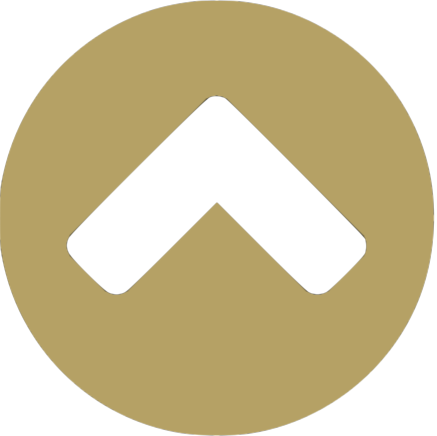
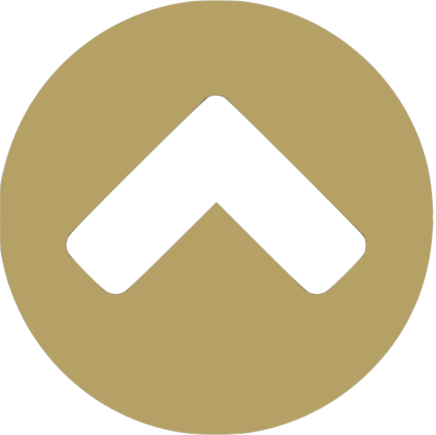
Fixed feature card tint.

diff --git a/src/Components/LandingPage/FeatureCard.js b/src/Components/LandingPage/FeatureCard.js
@@ -1,5 +1,7 @@
 import React, {Component} from "react";
 import ReactCardFlip from 'react-card-flip';
+import image from "../Images/features/image.png";
+import tint from "../Images/features/tint2.png";
 import image1 from "../Images/features/image1.png";
 import image2 from "../Images/features/image2.png";
 import image3 from "../Images/features/image3.png";
@@ -18,7 +20,8 @@ const useStyles = makeStyles(theme => ({
   image: { 
     position: 'relative',
     textAlign: 'center',
-    margin: '10px',
+    marginLeft: '10px',
+    marginRight: '10px'
   },
   front_text: { 
     position: 'absolute',
@@ -34,7 +37,7 @@ const useStyles = makeStyles(theme => ({
     marginTop: '75%',
     fontSize: '16px',
     width: '100%',
-    color: 'white'
+    color: 'white',
   },
   back_text: { 
     position: 'absolute',
@@ -44,15 +47,15 @@ const useStyles = makeStyles(theme => ({
     width: '100%',
     paddingLeft: '15px',
     paddingRight: '15px',
-    color: 'black',
+    color: 'white',
   }
 }));
 
 function withMyHook(Component){
-    return function WrappedComponent(props){
-        const classes = useStyles();
-        return <Component {...props} classes={classes}/>
-    }
+  return function WrappedComponent(props){
+    const classes = useStyles();
+    return <Component {...props} classes={classes}/>
+  }
 }
 
 class FeatureCard extends Component{
@@ -60,8 +63,8 @@ class FeatureCard extends Component{
     super(props);
     this.state = {
       isFlipped: false,
-      images: [image1, image2, image3, image4, image5, image6],
-      fimages: [fimage1, fimage2, fimage3, fimage4, fimage5, fimage6],
+      images: [image, image, image, image, image, image],
+      fimages: [image, image, image, image, image, image],
     };
     this.handleClick = this.handleClick.bind(this);
   }
@@ -75,15 +78,17 @@ class FeatureCard extends Component{
     const classes = this.props.classes;
     return (
       <ReactCardFlip isFlipped={this.state.isFlipped} flipDirection="vertical">
-        <div className={classes.image} onMouseEnter={this.handleClick} onMouseLeave={this.handleClick}>
+        <div className={classes.image} onClick={this.handleClick} onMouseEnter={this.handleClick} onMouseLeave={this.handleClick}>
           <h2 className={classes.front_text}>{this.props.front_text}</h2>
           <p className={classes.small_text}>more text on the flip side</p>
-          <img style={{width: '100%'}} src={this.state.fimages[this.props.card_number - 1]} alt="Front of feature card"/>
+          <img style={{width: '100%', height: '100%', opacity: '1', marginBottom: '-101%'}} src={tint} alt="Tint on front of feature card"/>
+          <img style={{width: '100%', height: '100%', opacity: '0.2'}} src={this.state.fimages[this.props.card_number - 1]} alt="Front of feature card"/>
         </div>
  
-        <div className={classes.image} onMouseEnter={this.handleClick} onMouseLeave={this.handleClick}>
+        <div className={classes.image} onClick={this.handleClick} onMouseEnter={this.handleClick} onMouseLeave={this.handleClick}>
           <p className={classes.back_text}>{this.props.back_text}</p>
-          <img style={{width: '100%'}} src={this.state.images[this.props.card_number - 1]} alt="Back of feature card"/>
+          <img style={{width: '100%', height: '100%', opacity: '1', marginBottom: '-101%'}} src={tint} alt="Tint on front of feature card"/>
+          <img style={{width: '100%', height: '100%', opacity: '0.2'}} src={this.state.images[this.props.card_number - 1]} alt="Back of feature card"/>
         </div>
       </ReactCardFlip>
     )
